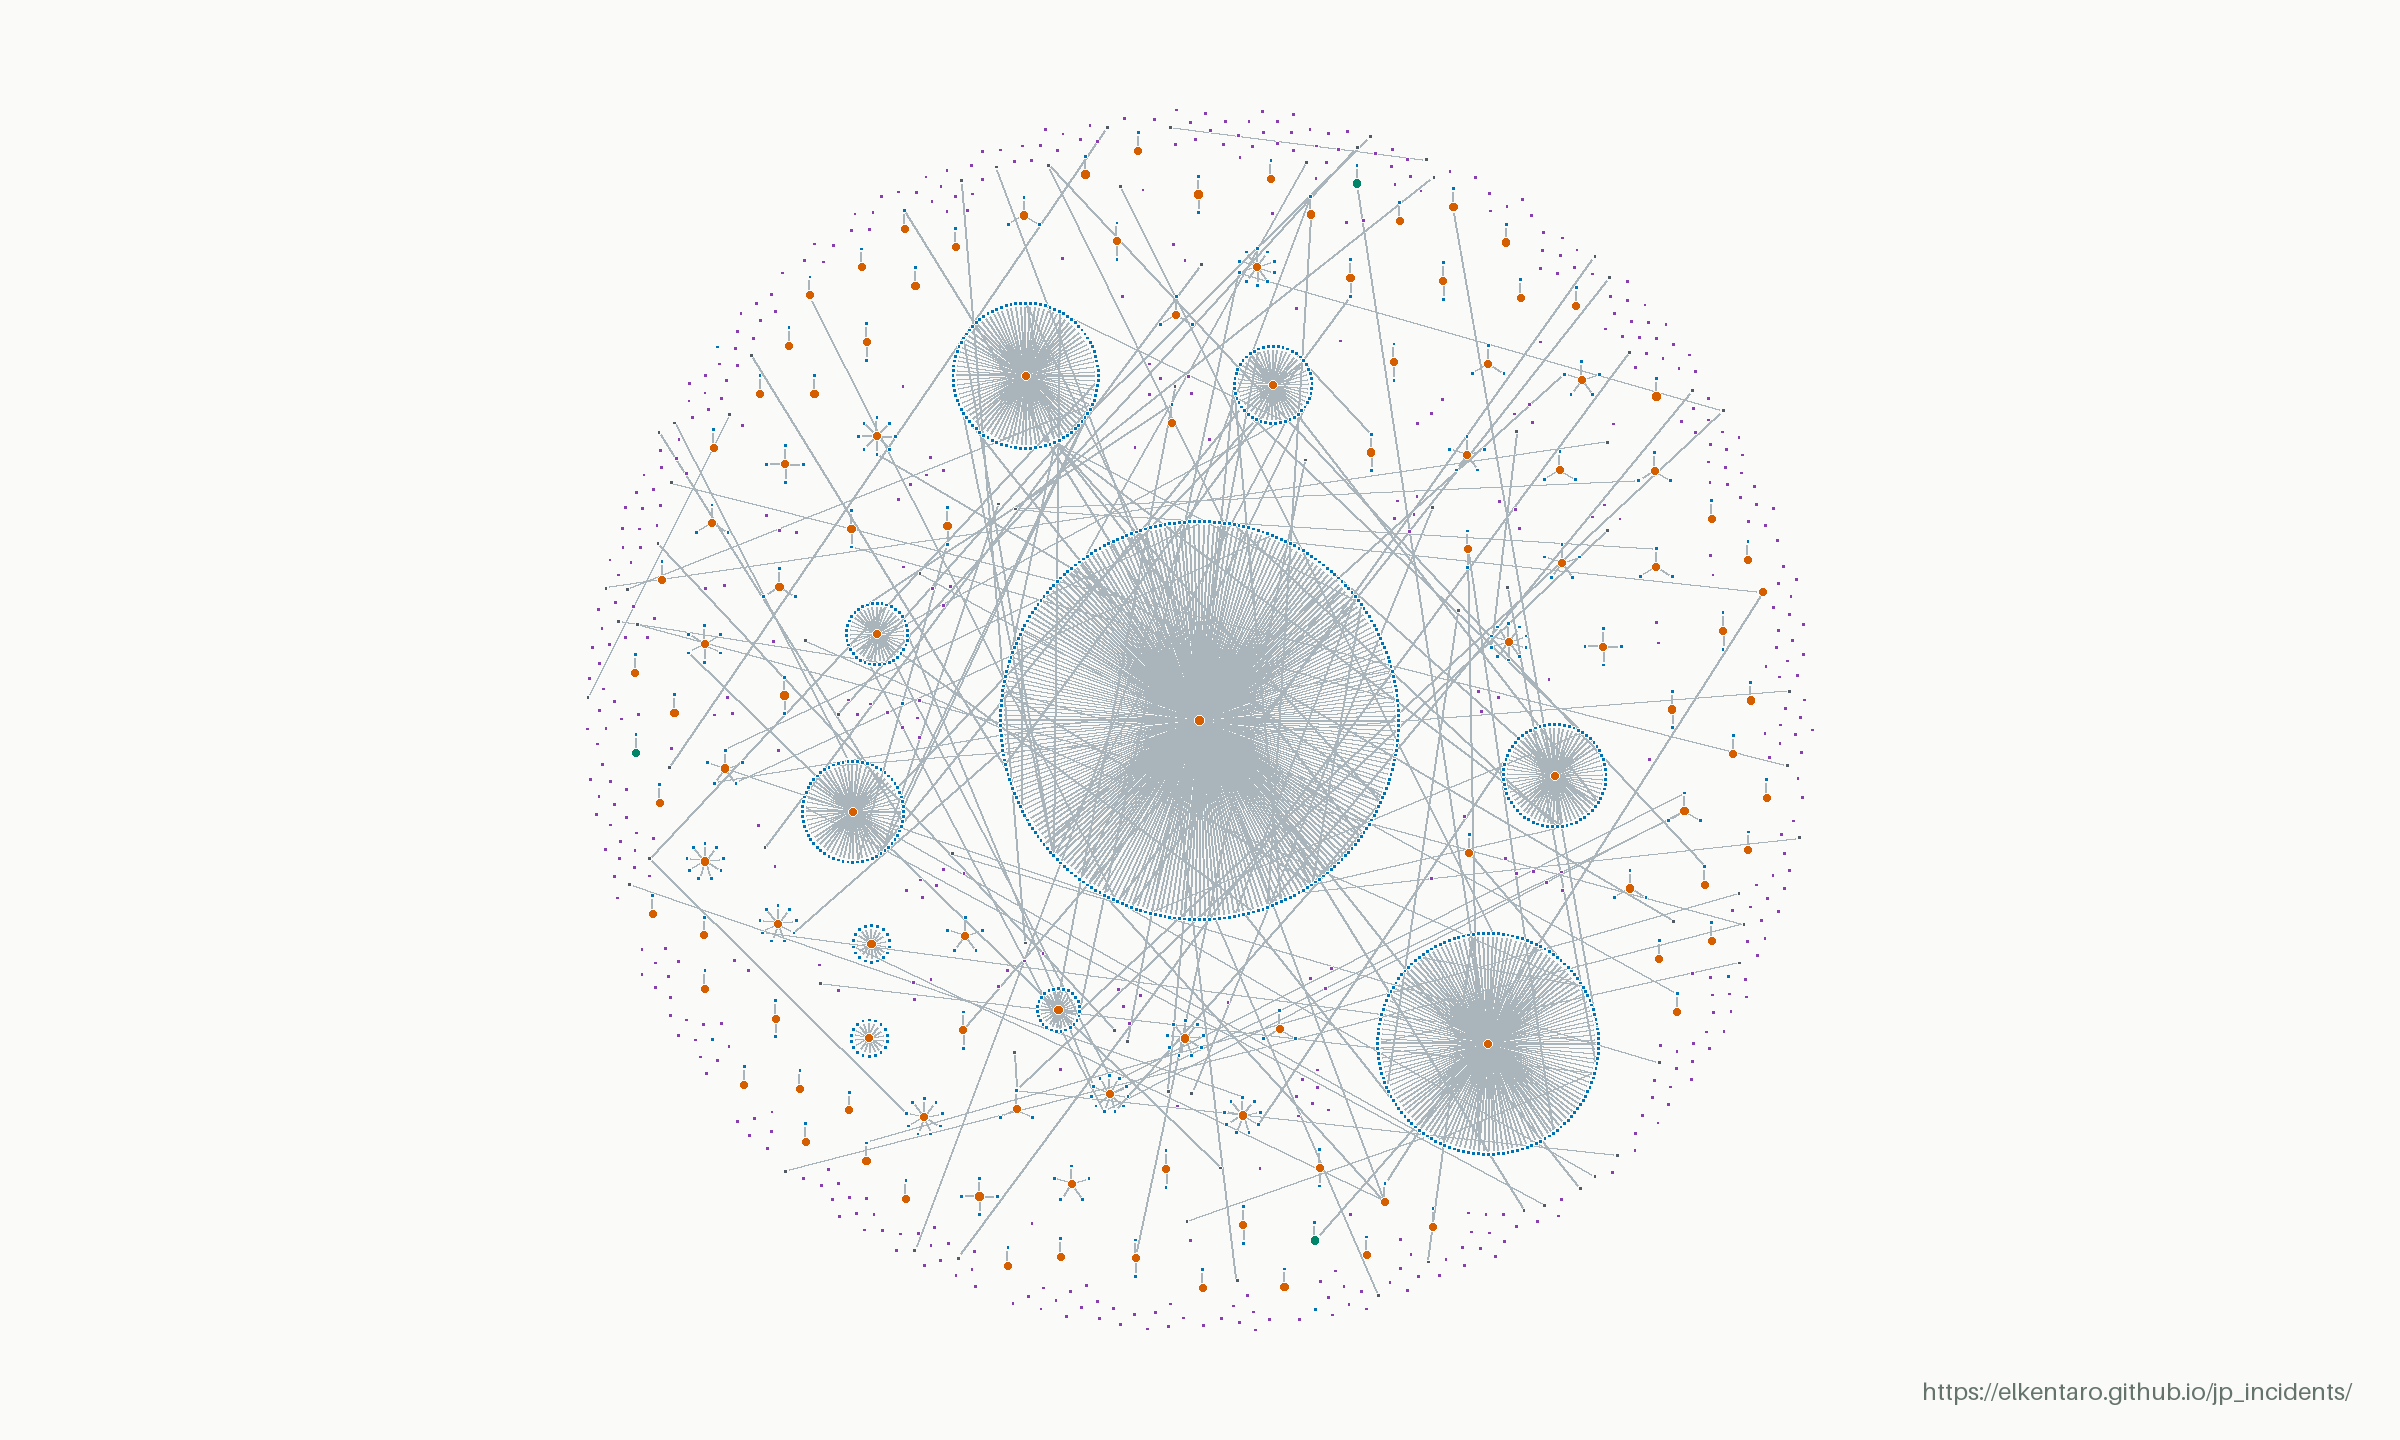
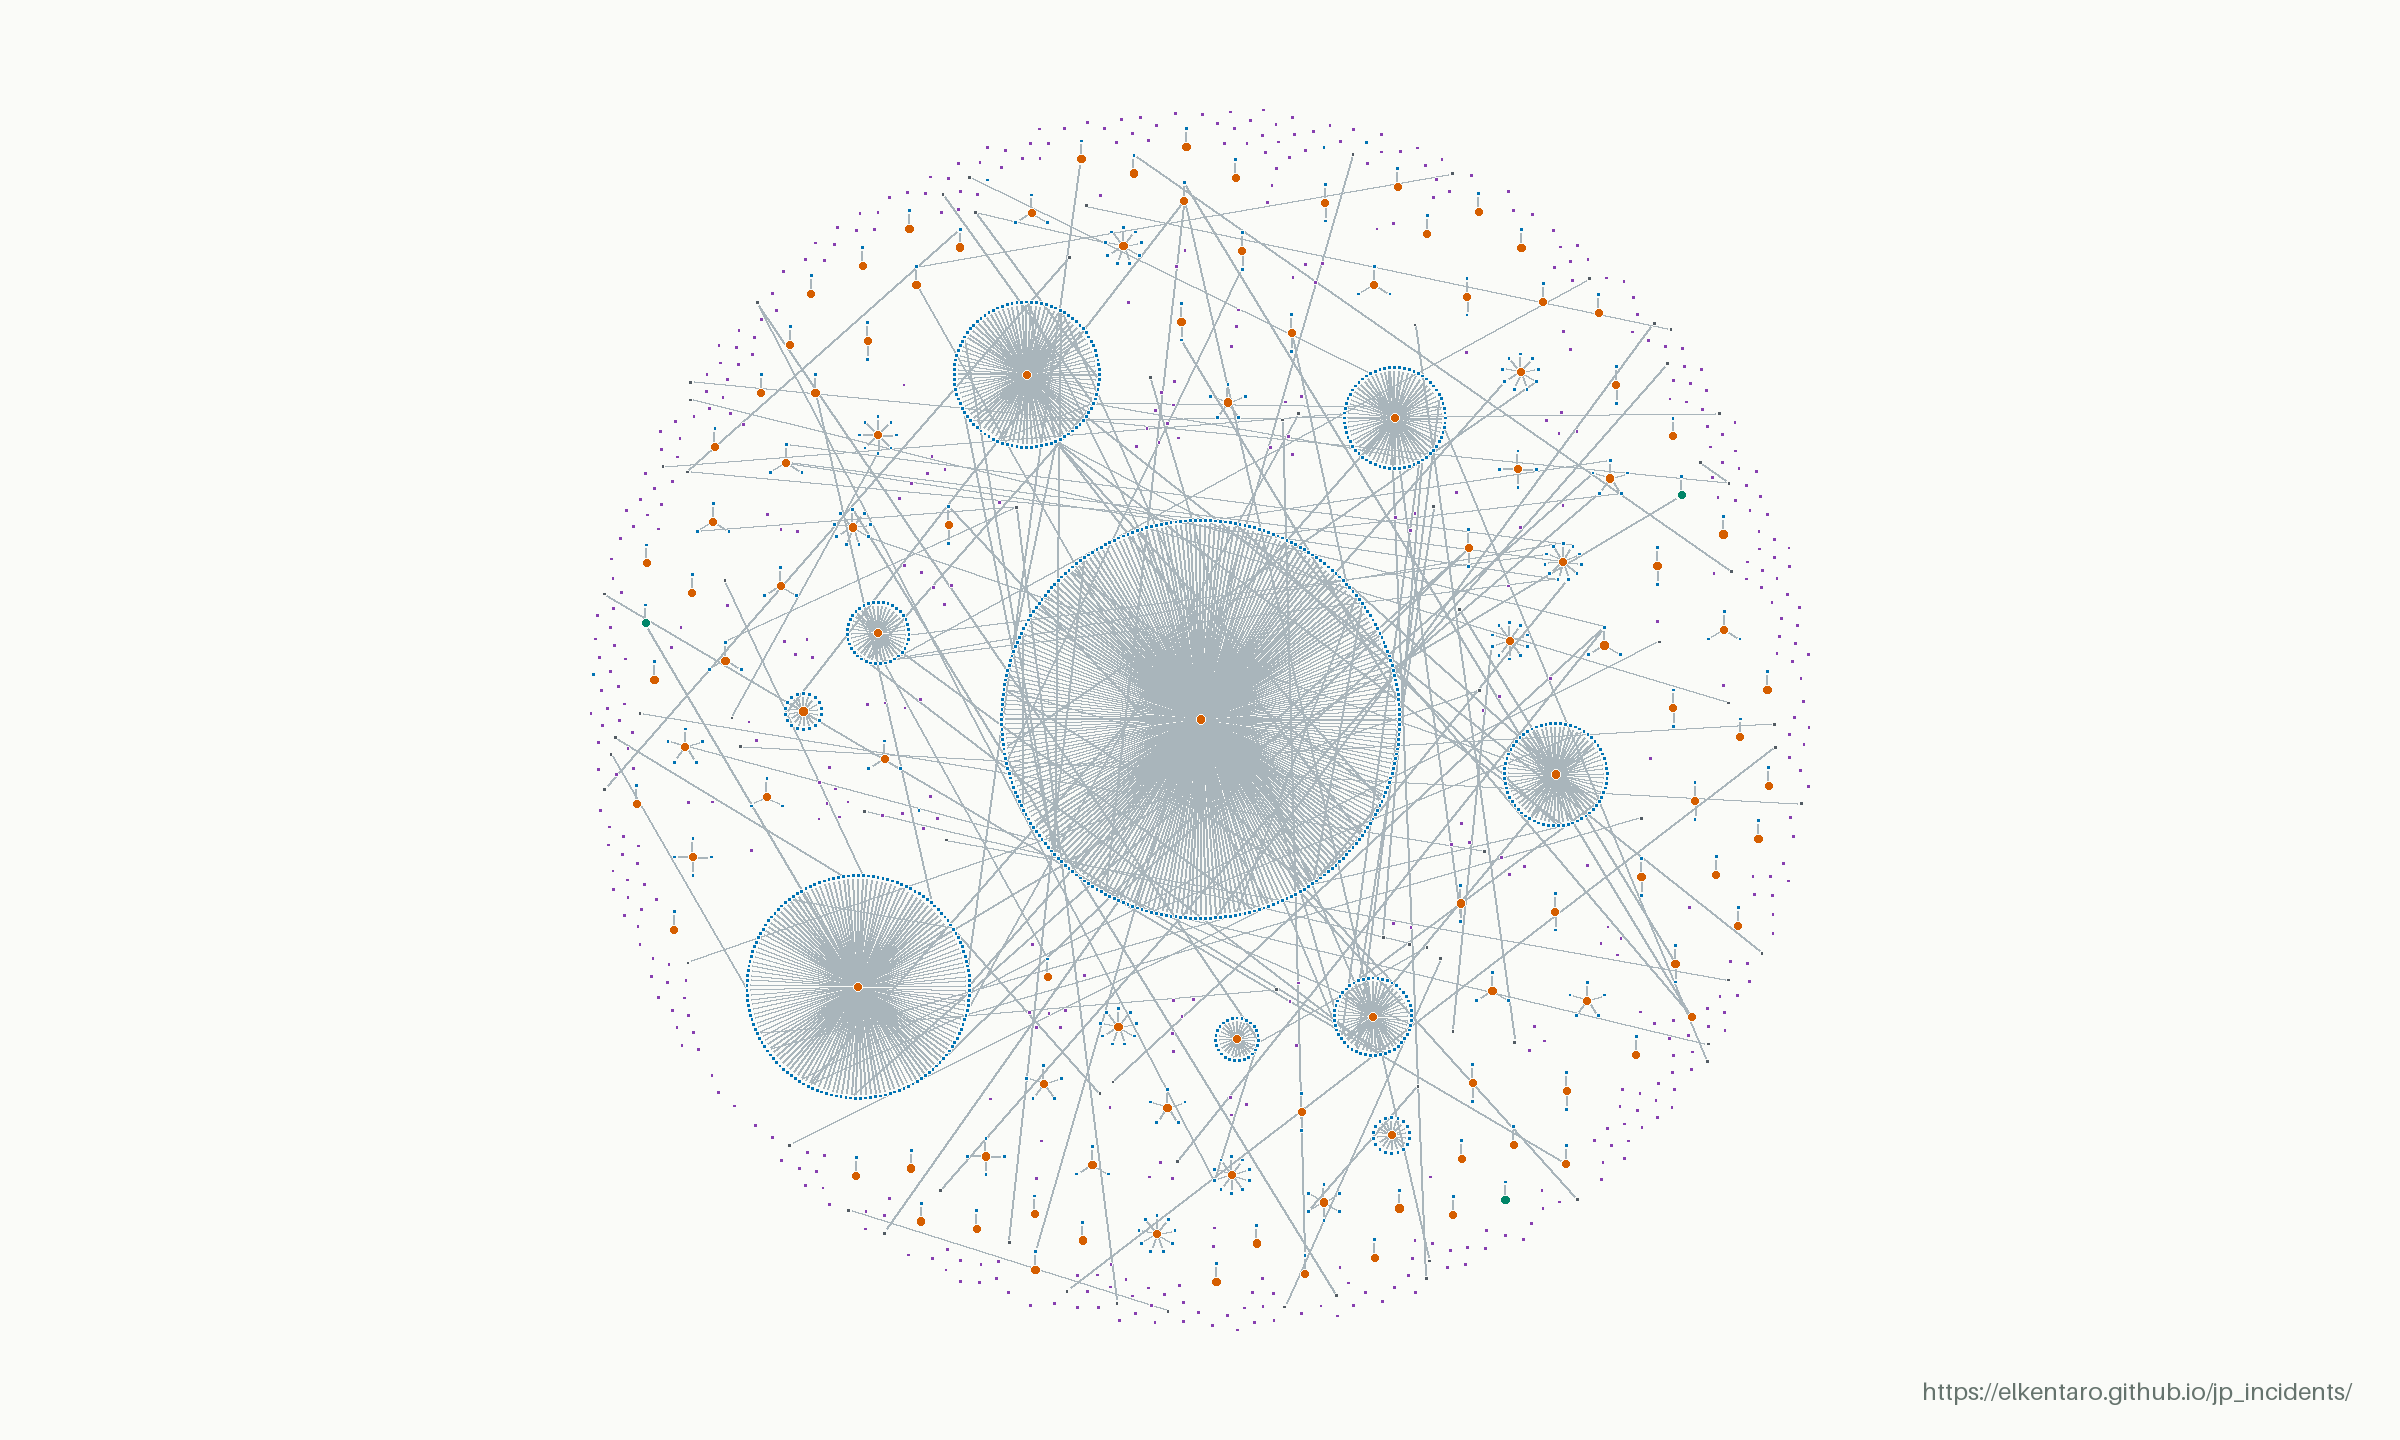
Update incident data (2026-11-28 09:19 UTC)

diff --git a/linkage.html b/linkage.html
@@ -36,13 +36,13 @@
         <div><dt data-copy="directUpstream">Upstream incidents</dt><dd id="upstream-count">112</dd></div>
         <div><dt data-copy="directStandalone">Standalone incidents</dt><dd id="standalone-count">572</dd></div>
       </dl>
-      <p class="direct-excluded"><strong id="downstream-count">1032</strong> <span data-copy="directExcluded">downstream records excluded, including incidents with both roles.</span></p>
+      <p class="direct-excluded"><strong id="downstream-count">1033</strong> <span data-copy="directExcluded">downstream records excluded, including incidents with both roles.</span></p>
       <p class="direct-definition" data-copy="directDefinition">Direct incidents = upstream + standalone, based on recorded causal links. Standalone incidents have no upstream or downstream causal links, but may have other links, such as separate events at the same organization.</p>
     </section>
     <dl class="map-stats">
-      <div><dt data-copy="total">Incidents in snapshot</dt><dd>1716</dd></div>
-      <div><dt data-copy="linked">With recorded connections</dt><dd>1213</dd></div>
-      <div><dt data-copy="links">Recorded connections</dt><dd>1166</dd></div>
+      <div><dt data-copy="total">Incidents in snapshot</dt><dd>1717</dd></div>
+      <div><dt data-copy="linked">With recorded connections</dt><dd>1214</dd></div>
+      <div><dt data-copy="links">Recorded connections</dt><dd>1167</dd></div>
       <div><dt data-copy="networks">Connected networks</dt><dd>96</dd></div>
     </dl>
     <figure class="map-figure">
@@ -50,7 +50,7 @@
         <img src="data/linkage-map.png" width="2400" height="1440" alt="Anonymized incident map. Orange upstream hubs connect to blue downstream incidents; purple unlinked incidents appear throughout the same map without connecting lines." data-copy-alt="alt">
       </div>
       <figcaption>
-        <div class="map-caption-meta"><span><span data-copy="updated">Last updated</span>: <time datetime="2026-11-28T07:20:12.565762+00:00">2026-11-28 07:20 UTC</time></span><a href="data/linkage-map.png" target="_blank" rel="noopener" data-copy="open">Open full-resolution image ↗</a></div>
+        <div class="map-caption-meta"><span><span data-copy="updated">Last updated</span>: <time datetime="2026-11-28T09:18:07.918995+00:00">2026-11-28 09:18 UTC</time></span><a href="data/linkage-map.png" target="_blank" rel="noopener" data-copy="open">Open full-resolution image ↗</a></div>
         <div class="map-key-section">
           <strong id="map-key-title" data-copy="key">Key</strong>
           <ul class="map-key" aria-labelledby="map-key-title">
@@ -69,7 +69,7 @@
       <section><h2 data-copy="readingTitle">Reading the map</h2><p data-copy="reading">Orange marks upstream incidents, blue downstream incidents, and purple unlinked incidents with no recorded connection. Teal marks incidents with both upstream and downstream roles; charcoal marks other related incidents. A missing connection does not establish that two incidents are unrelated.</p></section>
       <section><h2 data-copy="snapshotTitle">About this snapshot</h2><p data-copy="snapshot">The static image is refreshed when published incidents or relationships change, and at least every 24 hours during normal publication. Larger upstream clusters have extra spacing to keep their victims apart. Names, incident IDs, source links and incident dates are omitted; the connection pattern is retained. It is an overview of recorded relationships, not a complete map of cyber incidents in Japan.</p></section>
     </div>
-    <p class="map-source"><span data-copy="sourceUpdated">Source data updated</span>: <time datetime="2026-11-28T07:20:12+00:00">2026-11-28T07:20:12+00:00</time> · <a href="./" data-copy="browse">Browse the incident index</a></p>
+    <p class="map-source"><span data-copy="sourceUpdated">Source data updated</span>: <time datetime="2026-11-28T09:18:07+00:00">2026-11-28T09:18:07+00:00</time> · <a href="./" data-copy="browse">Browse the incident index</a></p>
   </main>
   <footer><div class="shell footer-inner"><p data-copy="footer">Public reports. Recorded relationships. An anonymized overview.</p><a href="./" data-copy="back">Back to incidents</a></div></footer>
   <script src="linkage.js?v=20261107-spacing" defer></script>
